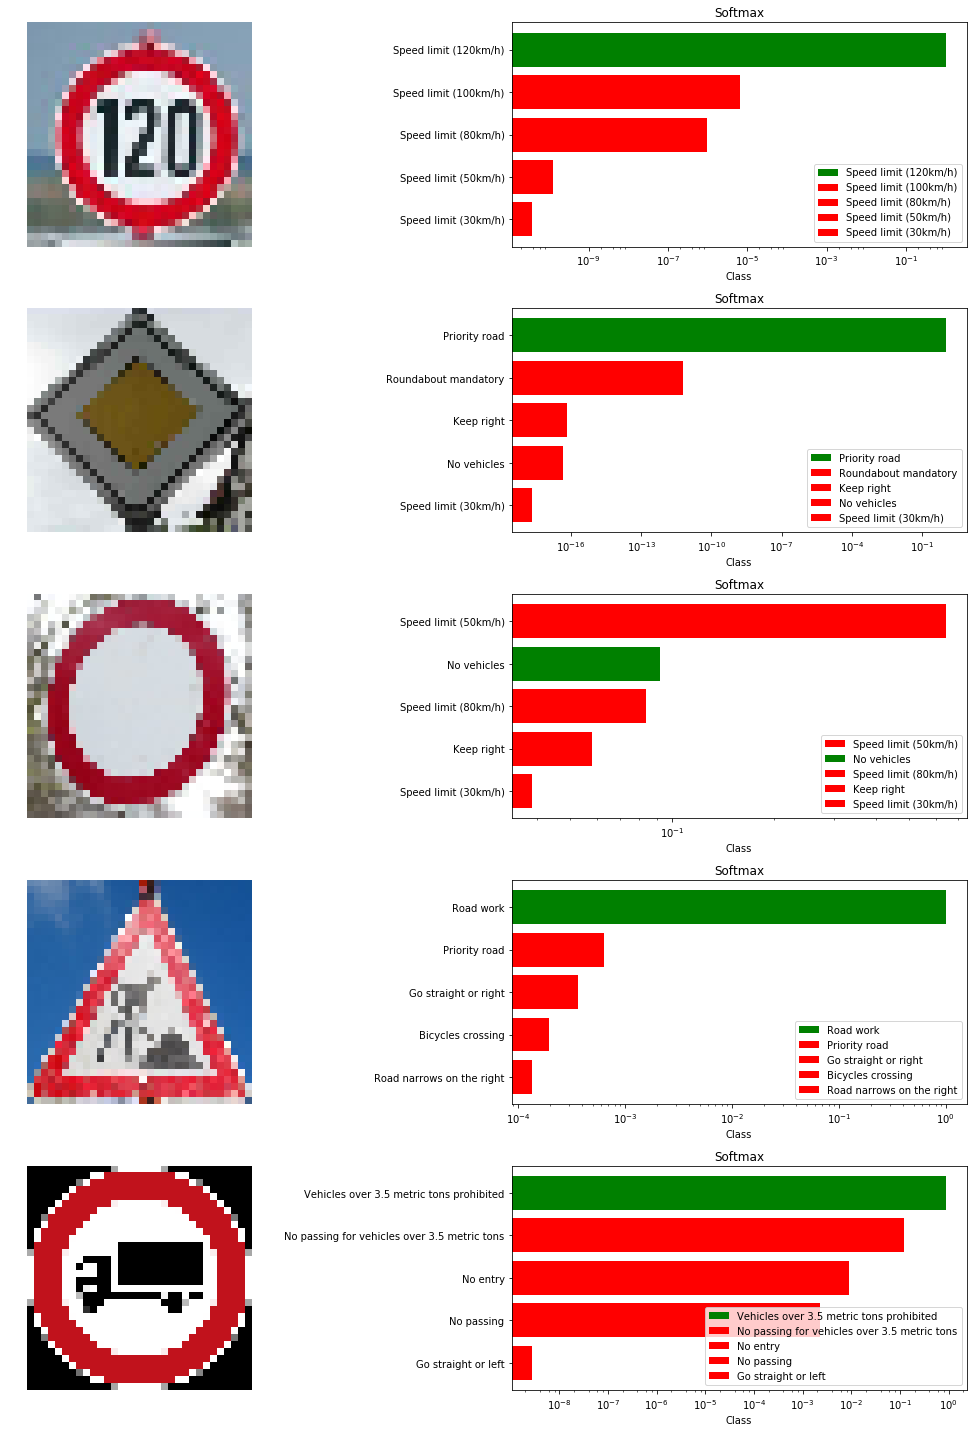
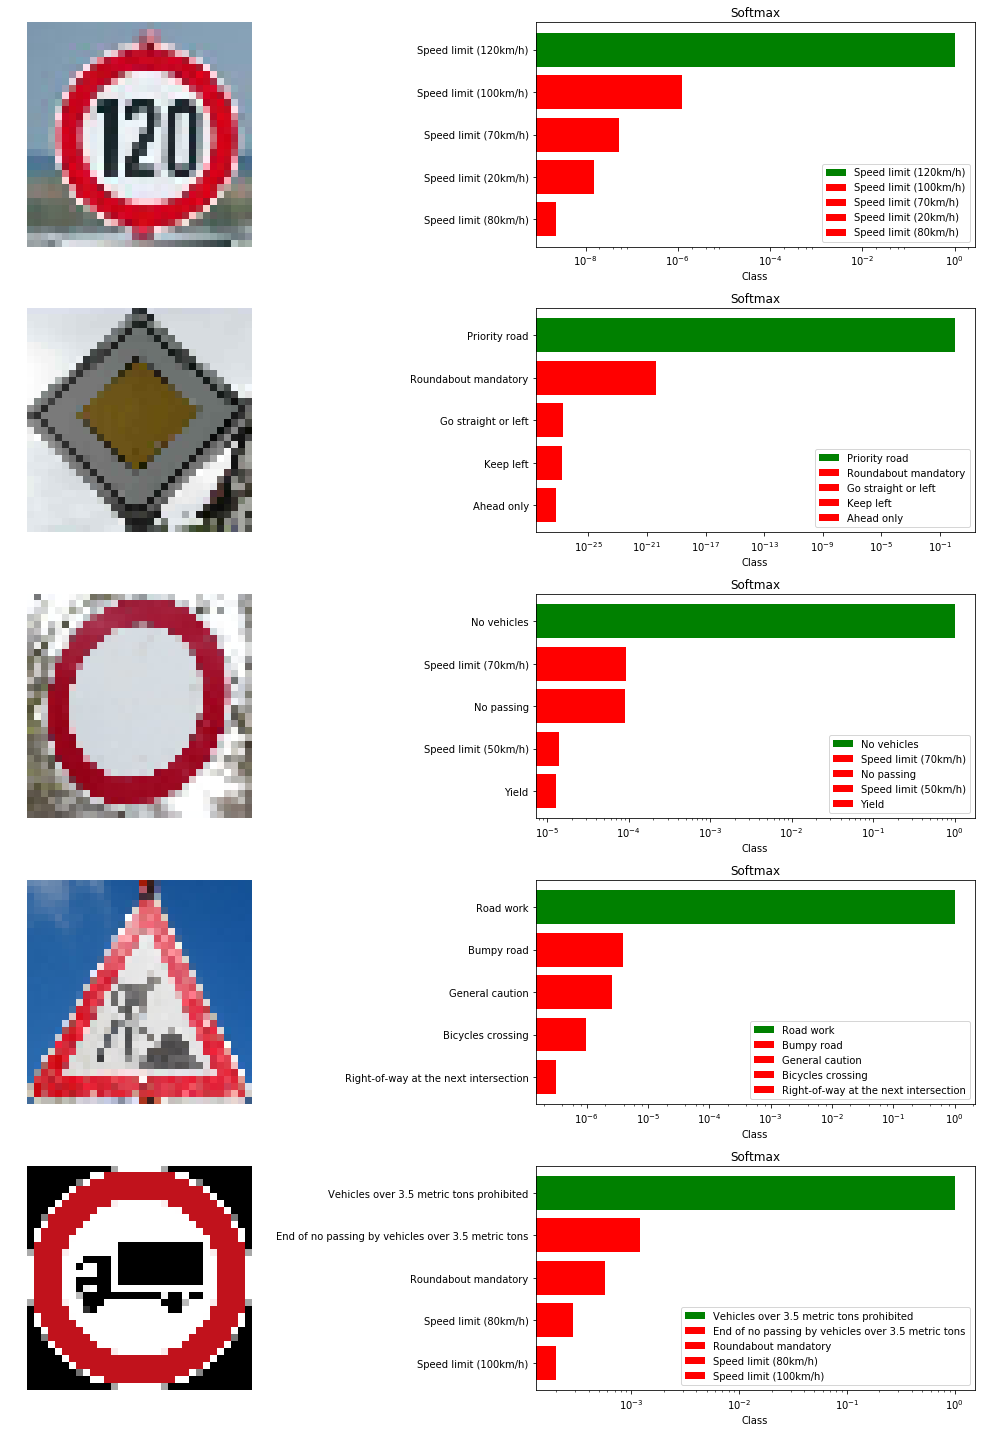
Fixing mistake where we did not refresh the image

diff --git a/writeup_template.md b/writeup_template.md
@@ -224,8 +224,7 @@ print("[Grayscale Normalised] Predictional accuracy on new images: {0}%".format(
 [Grayscale Normalised] Predictional accuracy on new images: 100.0%
 ```
 
-We also show the top 5 SoftMax probabilities computed for each model, with the green bar showing the ground truth. We can clearly see that the model is generally very confident about its top 1 prediction. But for the last image (_vehicles over 3.5 metric tons prohibited_) the top 1 and top predictions were very close. They are quite similar to a certain extent. More interesting is that on this last image scores for _No Entry_ and  _No Passing_ (top 3 and 4 respectively) are quite high compared to other images.
-Otherwise, our model performs quite well!!
+We also show the top 5 SoftMax probabilities computed for each model, with the green bar showing the ground truth. We can clearly see that our model quite confident in its predictions. In the worst case (last image), the 2 most likely prediction has a probability of around 10<sup>-3</sup>. In fact our model struggles most on the last image, which I believe is actually a design a not even a real picture. Overall, we have developed a strong model!
 
 ![Top 5 Softmax Prediction From Model](writeup_material/new_images_top5_softmax_probabilities.png)
 
